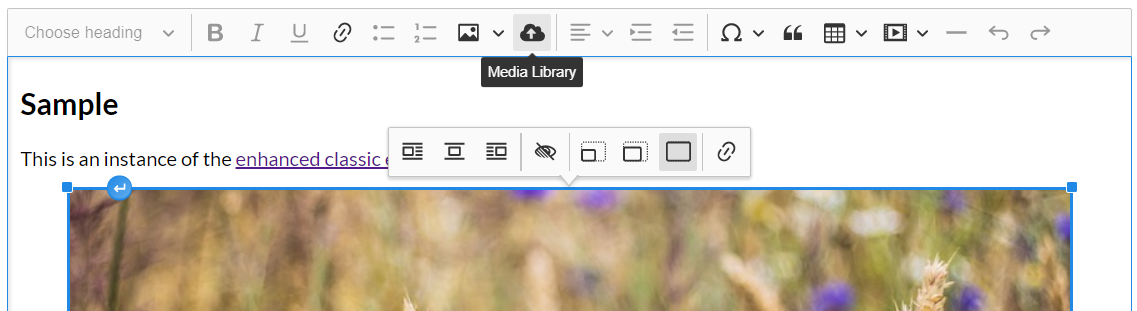
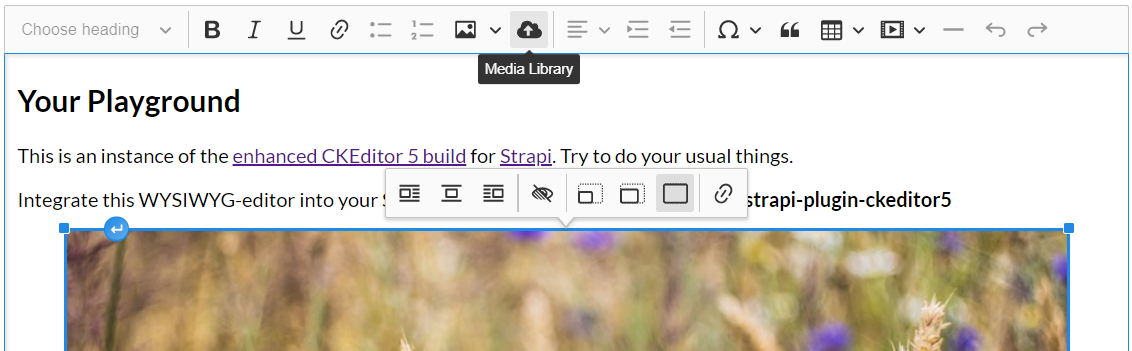
Improve sample

diff --git a/sample.html b/sample.html
@@ -2,7 +2,7 @@
 <html lang="en">
 <head>
 	<meta charset="utf-8">
-	<title>CKEditor 5 – enhanced classic editor build for Strapi – development sample</title>
+	<title>Enhanced build of CKEditor 5 for Strapi – Live Demo</title>
 	<style>
 		body {
 			max-width: 900px;
@@ -13,24 +13,21 @@
 </head>
 <body>
 
-<h1>
-	CKEditor 5 – enhanced classic editor build for Strapi – development sample
-</h1>
+<h1>Enhanced Build of CKEditor 5 for Strapi – Live Demo</h1>
 
-<h3>
-	Please note: Insert Image and Media Library buttons work only in Strapi
-</h3>
+<h3>Please note: Insert Image and Media Library buttons work only in Strapi</h3>
 
 <div id="editor">
-	<h2>Sample</h2>
+	<h2>Your Playground</h2>
 
-	<p>This is an instance of the <a href="https://github.com/Roslovets-Inc/ckeditor5-build-strapi-wysiwyg">enhanced classic editor build</a> for <a href="https://strapi.io/">Strapi</a>.</p>
+	<p>This is an instance of the <a href="https://github.com/Roslovets-Inc/ckeditor5-build-strapi-wysiwyg">enhanced CKEditor 5 build</a> for <a href="https://strapi.io/">Strapi</a>. Try to do your usual things.</p>
+	<p>Integrate this WYSIWYG-editor into your Strapi with <a href="https://github.com/Roslovets-Inc/strapi-plugin-ckeditor5">strapi-plugin-ckeditor5</a>: <b>npm i strapi-plugin-ckeditor5</b></p>
 
 	<figure class="image">
 		<img src="./tests/manual/sample.jpg" alt="Autumn fields" />
+		<figcaption>Sample image</figcaption>
 	</figure>
 
-	<p>You can use this sample to validate whether your <a href="https://ckeditor.com/docs/ckeditor5/latest/builds/guides/development/custom-builds.html">custom build</a> works fine.</p>
 </div>
 
 <script src="./build/ckeditor.js"></script>

diff --git a/README.md b/README.md
@@ -4,6 +4,8 @@ Enhanced build of [CKEditor 5](https://github.com/ckeditor/ckeditor5) to replace
 
 ![ckeditor5-build-strapi-wysiwyg sample](/sample.png)
 
+[👀 **live demo**](https://roslovets-inc.github.io/ckeditor5-build-strapi-wysiwyg/sample.html)
+
 
 ## Features
 
